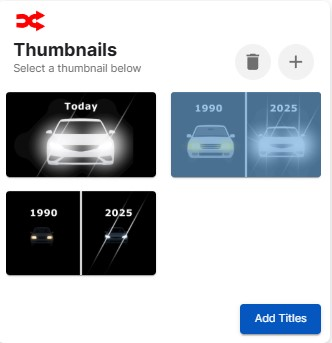
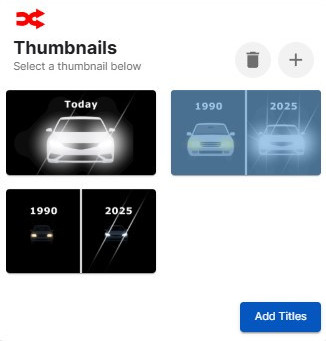
Finish blog

diff --git a/src/mdx-components.tsx b/src/mdx-components.tsx
@@ -17,12 +17,20 @@ export function useMDXComponents(components: MDXComponents): MDXComponents {
     li: (props) => <Typography variant="body1" component="li" {...props} />,
     em: (props) => <Typography variant="body1" component="em" {...props} />,
     strong: (props) => (
-      <Typography variant="body1" component="strong" {...props} />
+      <Typography
+        variant="body1"
+        component="p"
+        sx={{ fontWeight: "bold" }}
+        {...props}
+      />
     ),
     Figure,
     a: (props) => {
       // Use Next.js Link for internal links, MUI Link for styling
       const href = props.href as string;
+      const target = props.target as string;
+      const rel = props.rel as string;
+      // const isExternal = true;
       const isExternal = href?.startsWith("http") || href?.startsWith("mailto");
 
       if (isExternal) {
@@ -45,19 +53,30 @@ export function useMDXComponents(components: MDXComponents): MDXComponents {
 
       // For internal links, wrap MuiLink with Next.js Link
       return (
-        <Link href={href} passHref legacyBehavior>
-          <Link
-            color="primary"
-            underline="always"
-            sx={{
-              fontWeight: 500,
-              "&:hover": {
-                color: "primary.dark",
-              },
-            }}
-            {...props}
-          />
-        </Link>
+        <MuiLink
+          color="primary"
+          underline="always"
+          sx={{
+            fontWeight: 500,
+            "&:hover": {
+              color: "primary.dark",
+            },
+          }}
+          {...props}
+        />
+        // <Link href={href} passHref legacyBehavior>
+        //   <Link
+        //     color="primary"
+        //     underline="always"
+        //     sx={{
+        //       fontWeight: 500,
+        //       "&:hover": {
+        //         color: "primary.dark",
+        //       },
+        //     }}
+        //     {...props}
+        //   />
+        // </Link>
       );
     },
   };

diff --git a/src/app/components/blog/Figure.tsx b/src/app/components/blog/Figure.tsx
@@ -1,34 +1,36 @@
-import { Box, Typography } from "@mui/material";
-import Image, { ImageProps } from "next/image";
+import { Box, Typography, Paper } from "@mui/material";
 import { ReactNode } from "react";
 
 interface FigureProps {
-  src: ImageProps["src"];
-  alt: string;
+  srcComponent: ReactNode;
   caption?: ReactNode;
-  width?: number;
-  height?: number;
+  elevation?: number;
 }
 
-const Figure = ({
-  src,
-  alt,
-  caption,
-  width = 800,
-  height = 400,
-}: FigureProps) => (
-  <Box component="figure" sx={{ my: 3, textAlign: "center", mx: 0 }}>
-    <Image
-      src={src}
-      alt={alt}
-      width={width}
-      height={height}
-      style={{
-        maxWidth: "100%",
-        height: "auto",
+const Figure = ({ srcComponent, caption, elevation = 2 }: FigureProps) => (
+  <Box
+    component="figure"
+    sx={{
+      my: 3,
+      textAlign: "center",
+      mx: 0,
+      display: "flex",
+      flexDirection: "column",
+      alignItems: "center",
+    }}
+  >
+    <Paper
+      elevation={elevation}
+      sx={{
+        p: 1,
         borderRadius: "4px",
+        overflow: "hidden",
+        display: "inline-block",
+        maxWidth: "100%",
       }}
-    />
+    >
+      {srcComponent}
+    </Paper>
     {caption && (
       <Typography
         component="figcaption"

diff --git a/src/app/components/home/Footer.tsx b/src/app/components/home/Footer.tsx
@@ -12,10 +12,23 @@ const Footer = () => {
         display: "flex",
         justifyContent: "space-between",
         alignItems: "center",
+        gap: 1,
       }}
     >
       <Typography>YouTube Thumbnail Swapper © 2025</Typography>
-      <Box sx={{ display: "flex", gap: 3 }}>
+      <Box
+        sx={{
+          display: "flex",
+          gap: 3,
+          flexDirection: { sm: "column", xs: "column", md: "row" },
+        }}
+      >
+        <Link href="/" color="inherit">
+          Home
+        </Link>
+        <Link href="/blog" color="inherit">
+          Blog
+        </Link>
         <Link href="/terms-of-service" color="inherit">
           Terms of Service
         </Link>

diff --git a/src/app/components/blog/BlogCard.tsx b/src/app/components/blog/BlogCard.tsx
@@ -39,6 +39,9 @@ export const BlogCard = ({ post }: BlogCardProps) => {
 
         <CardContent sx={{ flexGrow: 1, p: 3, pb: 2 }}>
           <Box sx={{ mb: 1.5 }}>
+            <Typography variant="body1" fontWeight="bold">
+              {post.title}
+            </Typography>
             <BlogSubtitle post={post} />
           </Box>
 
@@ -49,7 +52,7 @@ export const BlogCard = ({ post }: BlogCardProps) => {
               lineHeight: 1.5,
               mb: 2,
               display: "-webkit-box",
-              WebkitLineClamp: 2,
+              WebkitLineClamp: 3,
               WebkitBoxOrient: "vertical",
               overflow: "hidden",
               color: "grey.400",

diff --git a/src/app/privacy/page.tsx b/src/app/privacy/page.tsx
@@ -5,7 +5,6 @@ import Footer from "@/app/components/home/Footer";
 export default function Privacy() {
   return (
     <>
-      <NavBar />
       <Container maxWidth="lg" sx={{ py: 4 }}>
         <Typography variant="h3" component="h1" gutterBottom fontWeight="bold">
           Privacy Policy for Thumbnail Swapper
@@ -172,7 +171,6 @@ export default function Privacy() {
           .
         </Typography>
       </Container>
-      <Footer />
     </>
   );
 }

diff --git a/src/app/terms-of-service/page.tsx b/src/app/terms-of-service/page.tsx
@@ -14,7 +14,6 @@ import Footer from "@/app/components/home/Footer";
 export default function TermsOfService() {
   return (
     <>
-      <NavBar />
       <Container maxWidth="lg" sx={{ py: 4 }}>
         <Typography variant="h3" component="h1" gutterBottom fontWeight="bold">
           Terms of Service
@@ -195,7 +194,6 @@ export default function TermsOfService() {
           .
         </Typography>
       </Container>
-      <Footer />
     </>
   );
 }

diff --git a/src/app/blog/blog-posts.ts b/src/app/blog/blog-posts.ts
@@ -15,7 +15,7 @@ export const blogPosts: BlogPost[] = [
     title: "How to Compare Title and Thumbnail on YouTube",
     description:
       "Learn how to compare your title and thumbnail on the YouTube site",
-    date: "11/14/2025",
+    date: "11/15/2025",
     duration: 4,
     image: "/images/blog/howto.png",
   },
